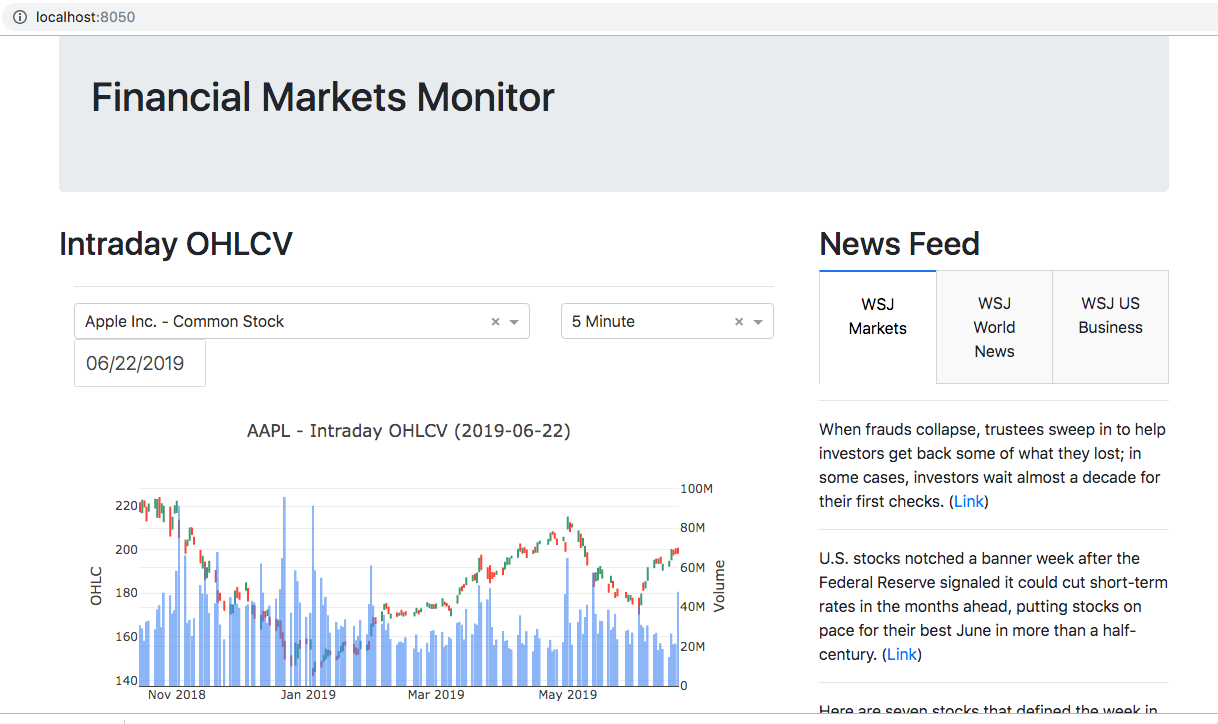
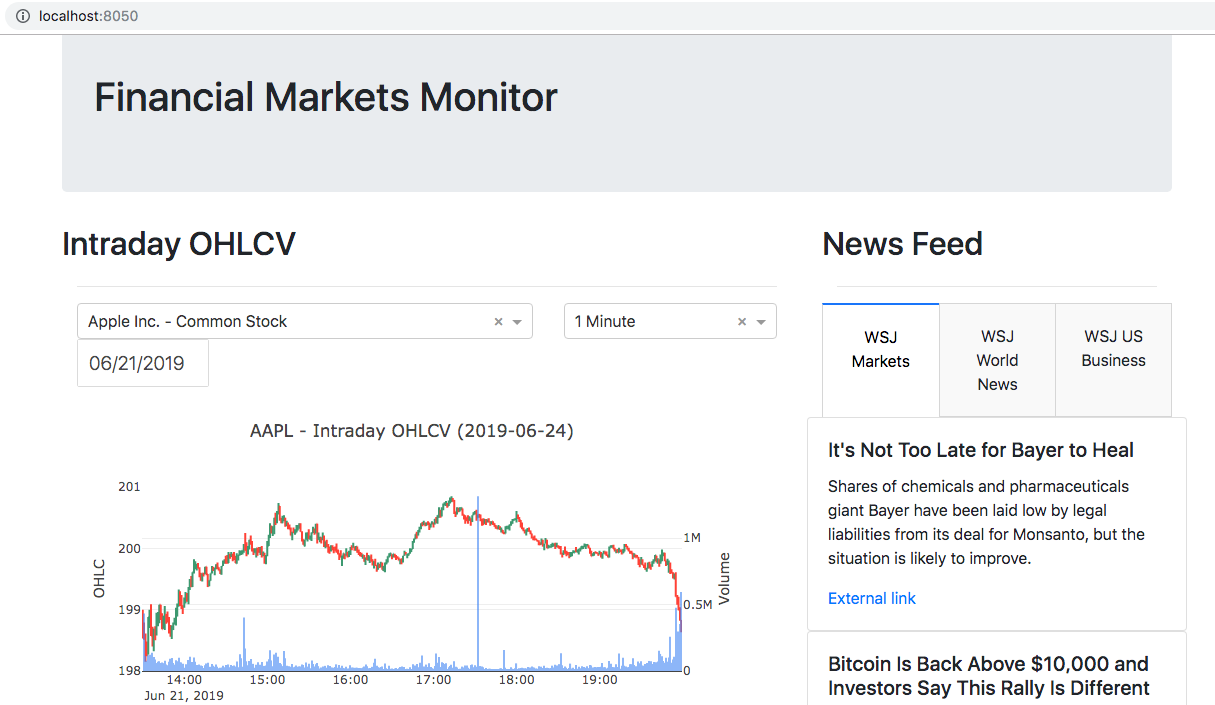
Adjusted intraday start, end date selection Updated dashboard image Create cache dir if doesnt exist

diff --git a/app-main.py b/app-main.py
@@ -82,9 +82,9 @@ def update_intraday_graph(dropdown_intraday_symbol, dateselector_intraday, dropd
     # Variables to update
     ticker = dropdown_intraday_symbol
     interval = dropdown_intraday_interval
-    end = app_obj.utils.parse_date(dateselector_intraday)
+    start = app_obj.utils.parse_date(dateselector_intraday)
 
-    start = end - BDay(1)
+    end = start + BDay(1)
 
     df = dl.equities.get_historical(tickers=ticker, start_date=start, end_date=end, interval=interval)
 

diff --git a/dataloader/news.py b/dataloader/news.py
@@ -2,6 +2,7 @@ import feedparser
 import datetime
 import pathlib
 import json
+import os
 
 rss_feeds = {
     "WSJ Markets": {
@@ -19,6 +20,9 @@ rss_feeds = {
 }
 
 CACHE_DIR = pathlib.Path("./dataloader/cache")
+
+if not CACHE_DIR.exists():
+    os.mkdir(CACHE_DIR)
 
 
 def update_cache(feed_key):
